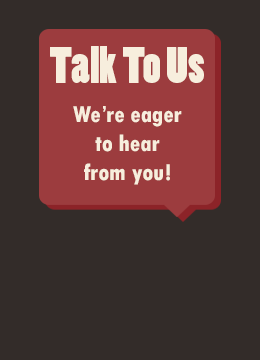
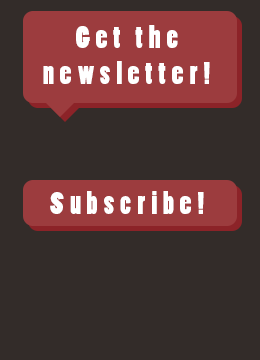
Add newsletter subscription to home page

diff --git a/app/assets/javascripts/subscribe.js b/app/assets/javascripts/subscribe.js
@@ -1,0 +1,16 @@
+$(document).ready(function() {
+
+	$('#subscribe form').submit(function(e) {
+		e.preventDefault();
+		$.ajax({
+			type: "POST",
+			data: "email=" + $('#subscribe input[type="email"]').val(),
+			dataType: "json",
+			url: "http://mailman.yale.edu/mailman/subscribe/casa-list",
+			complete: function() {
+				alert("Thank you for signing up! Please check your email to confirm your subscription.");
+			}
+		});
+	});
+
+});
